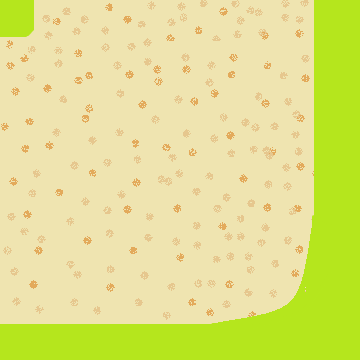
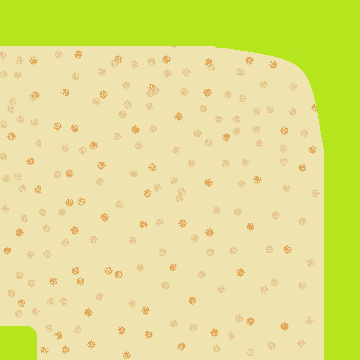
rotate cell images

diff --git a/src/main/java/it/unibo/towerdefense/view/map/MapRendererImpl.java b/src/main/java/it/unibo/towerdefense/view/map/MapRendererImpl.java
@@ -36,13 +36,7 @@ public class MapRendererImpl implements MapRenderer {
 
     @Override
     public void renderPath(GameRenderer gr, final Stream<CellInfo> map) {
-        final var mapDrawables = map.map(p -> new ImageDrawable(
-            getImage(p),
-            new PositionImpl(
-                p.getPosition().getCellX(),
-                p.getPosition().getCellY()
-            )
-        )).toList();
+        final var mapDrawables = map.map(p -> new ImageDrawable(getImage(p), p.getPosition())).toList();
         gr.submitBackgroundAllToCanvas(mapDrawables);
     }
 
@@ -56,7 +50,7 @@ public class MapRendererImpl implements MapRenderer {
     }
 
     private BufferedImage path(int i) {
-        return images.get(i % 2);
+        return rotateImageClockwise(images.get(i % 2), i / 2 * 90);
     }
 
     private static BufferedImage rotateImageClockwise(BufferedImage originalImage, int degrees) {

diff --git a/src/main/java/it/unibo/towerdefense/model/map/ReversedPathFactory.java b/src/main/java/it/unibo/towerdefense/model/map/ReversedPathFactory.java
@@ -46,9 +46,10 @@ public class ReversedPathFactory {
 
             @Override
             public MapDirection apply(final MapDirection d) {
-                if (counter < random.nextInt(
-                    Math.abs(direciton.orizontal() * size.getHeight() + direciton.vertical() * size.getWidth()) / 4
-                    )) {
+                if (counter <
+                random.nextInt(Math.abs(direciton.orizontal() * size.getHeight() + direciton.vertical() * size.getWidth()) /
+                (d == direciton ? 4 : 2)
+                )) {
                     counter++;
                     return d;
                 }

diff --git a/src/main/java/it/unibo/towerdefense/model/map/MapManagerImpl.java b/src/main/java/it/unibo/towerdefense/model/map/MapManagerImpl.java
@@ -186,8 +186,8 @@ public class MapManagerImpl implements MapManager {
         return map.getMap().map(c -> new CellInfo() {
 
             @Override
-            public LogicalPosition getPosition() {
-                return new LogicalPosition(c.getX() * LogicalPosition.SCALING_FACTOR, c.getY() * LogicalPosition.SCALING_FACTOR);
+            public Position getPosition() {
+                return c.copy();
             }
 
             @Override

diff --git a/src/main/java/it/unibo/towerdefense/commons/dtos/map/CellInfo.java b/src/main/java/it/unibo/towerdefense/commons/dtos/map/CellInfo.java
@@ -1,10 +1,11 @@
 package it.unibo.towerdefense.commons.dtos.map;
 
 import it.unibo.towerdefense.commons.engine.LogicalPosition;
+import it.unibo.towerdefense.commons.engine.Position;
 
 public interface CellInfo {
 
-    LogicalPosition getPosition();
+    Position getPosition();
     boolean isPathCell();
     boolean isBuildable();
     int getDirectionsSum();
